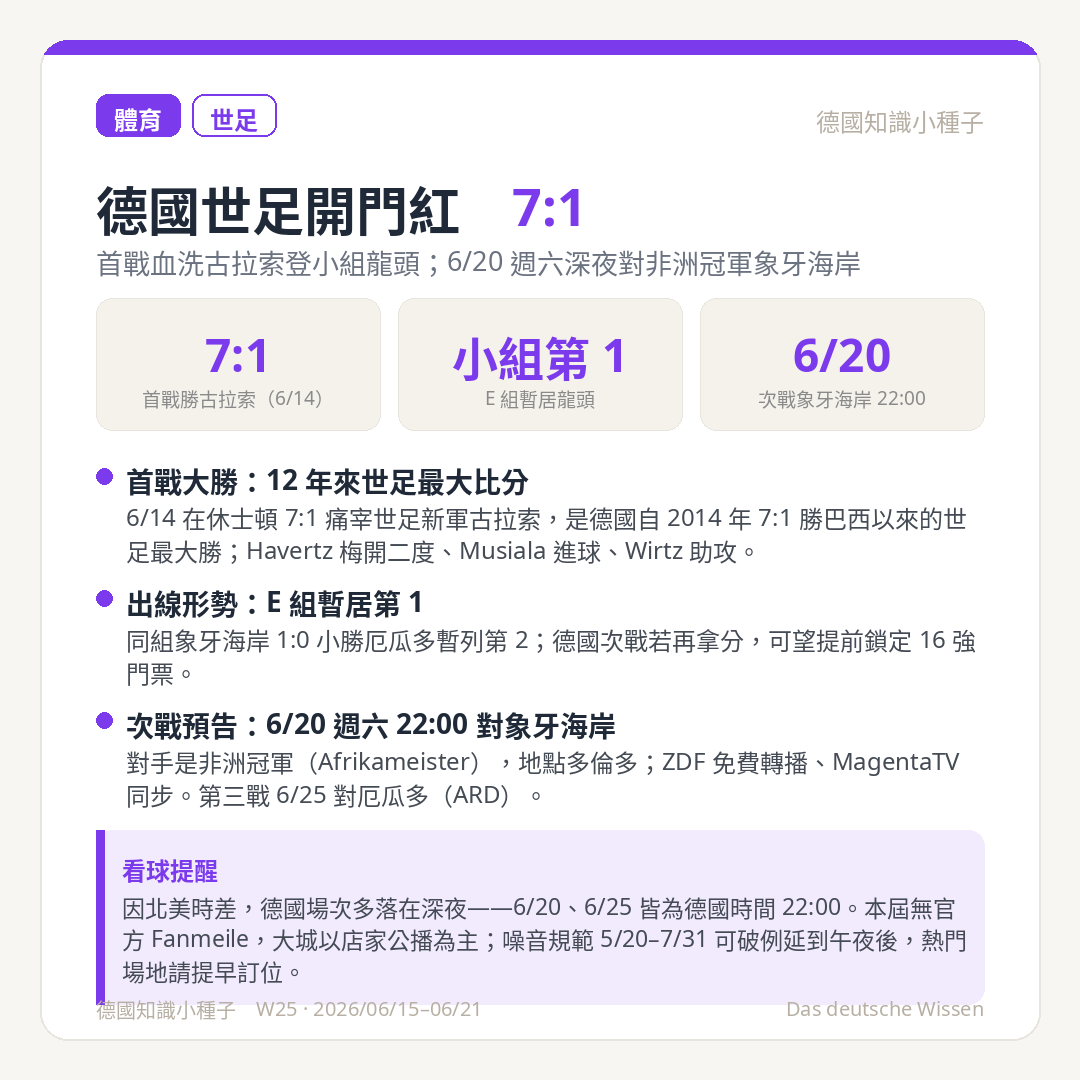
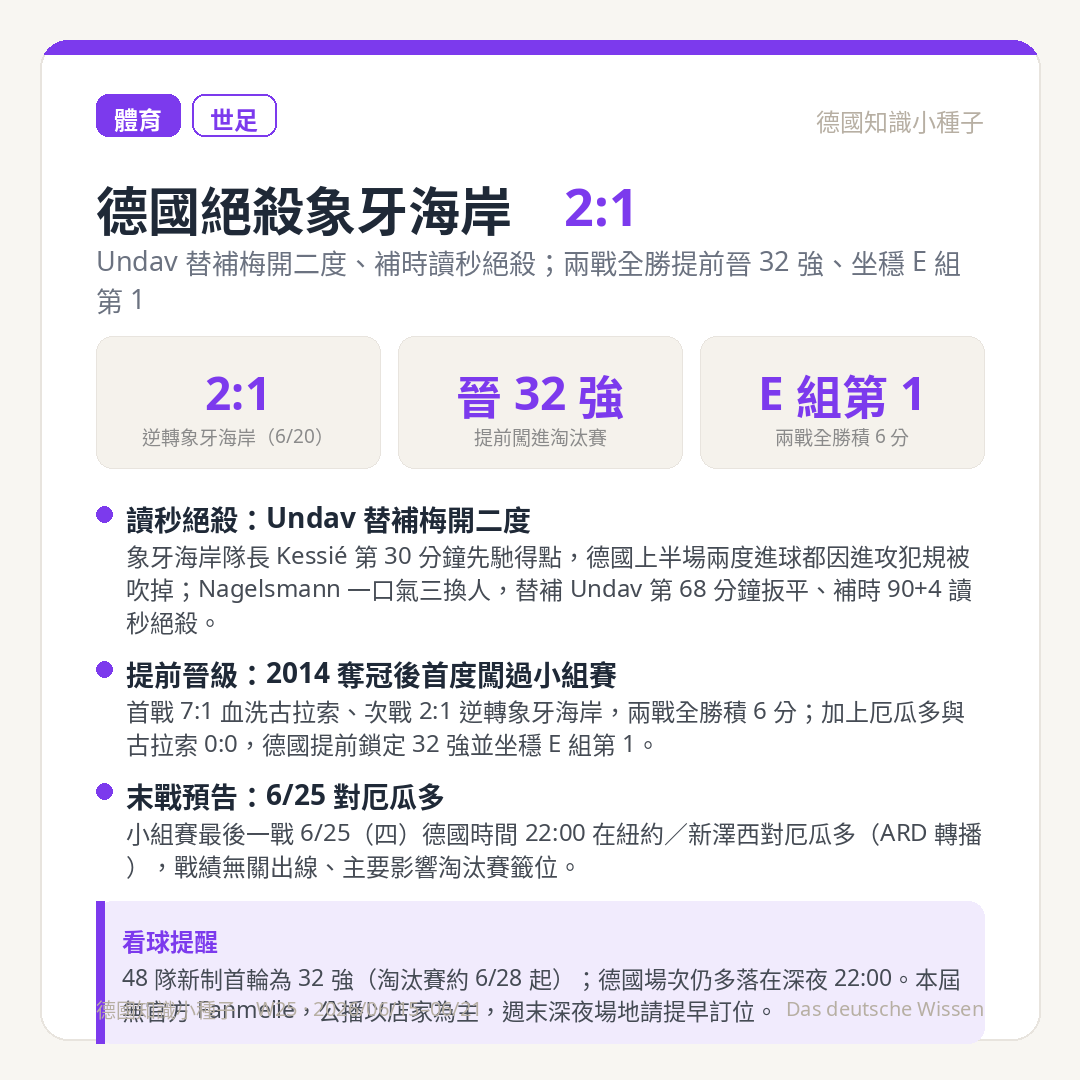
W25 世足更新：德國 2:1 逆轉象牙海岸、提前晉 32 強 (#27)
圖卡1 改賽果版、更新 js/data.js（內文/lead/標題/TOC/excerpt）、修正淘汰賽輪次為 32 強、重建靜態頁。

diff --git a/posts/weekly-digest.html b/posts/weekly-digest.html
@@ -6,13 +6,13 @@
 <meta name="viewport" content="width=device-width, initial-scale=1.0" />
 <meta name="referrer" content="strict-origin-when-cross-origin" />
 <title>德國知識小種子週報精選 | 台勞在德國打工記</title>
-<meta name="description" content="德國世足首戰 7:1 血洗古拉索、暫居 E 組龍頭，6/20 週六德國時間 22:00 再戰非洲冠軍象牙海岸（ZDF）；6/19 起熱浪席捲西南部、上看 38°C，DWD 逾百縣市發布高溫警告、首批熱帶夜報到；6/18–19 EU 高峰會在布魯塞爾登場，烏克蘭「聯繫會員」、第 21 輪對俄制裁與 2028–34 七年預" />
+<meta name="description" content="德國世足兩戰全勝、提前晉級 32 強——首戰 7:1 大勝古拉索、6/20 再靠 Undav 補時絕殺 2:1 逆轉象牙海岸，坐穩 E 組第 1，是 2014 奪冠後首度闖過小組賽；6/19 起熱浪席捲西南部、上看 38°C，DWD 逾百縣市發布高溫警告、首批熱帶夜報到；6/18–19 EU 高峰會在布魯塞爾登場，烏克" />
 <meta name="robots" content="index, follow" />
 <link rel="canonical" href="https://taiwanese-in-germany.com/posts/weekly-digest.html" />
 <meta property="og:type" content="article" />
 <meta property="og:site_name" content="台勞在德國打工記" />
 <meta property="og:title" content="德國知識小種子週報精選 | 台勞在德國打工記" />
-<meta property="og:description" content="德國世足首戰 7:1 血洗古拉索、暫居 E 組龍頭，6/20 週六德國時間 22:00 再戰非洲冠軍象牙海岸（ZDF）；6/19 起熱浪席捲西南部、上看 38°C，DWD 逾百縣市發布高溫警告、首批熱帶夜報到；6/18–19 EU 高峰會在布魯塞爾登場，烏克蘭「聯繫會員」、第 21 輪對俄制裁與 2028–34 七年預" />
+<meta property="og:description" content="德國世足兩戰全勝、提前晉級 32 強——首戰 7:1 大勝古拉索、6/20 再靠 Undav 補時絕殺 2:1 逆轉象牙海岸，坐穩 E 組第 1，是 2014 奪冠後首度闖過小組賽；6/19 起熱浪席捲西南部、上看 38°C，DWD 逾百縣市發布高溫警告、首批熱帶夜報到；6/18–19 EU 高峰會在布魯塞爾登場，烏克" />
 <meta property="og:url" content="https://taiwanese-in-germany.com/posts/weekly-digest.html" />
 <meta property="og:image" content="https://taiwanese-in-germany.com/assets/images/2026/weekly/W25_圖卡1_世足戰況.png" />
 <meta property="og:locale" content="zh_TW" />
@@ -22,9 +22,9 @@
 <meta property="article:tag" content="時事" />
 <meta name="twitter:card" content="summary_large_image" />
 <meta name="twitter:title" content="德國知識小種子週報精選 | 台勞在德國打工記" />
-<meta name="twitter:description" content="德國世足首戰 7:1 血洗古拉索、暫居 E 組龍頭，6/20 週六德國時間 22:00 再戰非洲冠軍象牙海岸（ZDF）；6/19 起熱浪席捲西南部、上看 38°C，DWD 逾百縣市發布高溫警告、首批熱帶夜報到；6/18–19 EU 高峰會在布魯塞爾登場，烏克蘭「聯繫會員」、第 21 輪對俄制裁與 2028–34 七年預" />
+<meta name="twitter:description" content="德國世足兩戰全勝、提前晉級 32 強——首戰 7:1 大勝古拉索、6/20 再靠 Undav 補時絕殺 2:1 逆轉象牙海岸，坐穩 E 組第 1，是 2014 奪冠後首度闖過小組賽；6/19 起熱浪席捲西南部、上看 38°C，DWD 逾百縣市發布高溫警告、首批熱帶夜報到；6/18–19 EU 高峰會在布魯塞爾登場，烏克" />
 <meta name="twitter:image" content="https://taiwanese-in-germany.com/assets/images/2026/weekly/W25_圖卡1_世足戰況.png" />
-<script type="application/ld+json">{"@context":"https://schema.org","@type":"BlogPosting","headline":"德國知識小種子週報精選","description":"德國世足首戰 7:1 血洗古拉索、暫居 E 組龍頭，6/20 週六德國時間 22:00 再戰非洲冠軍象牙海岸（ZDF）；6/19 起熱浪席捲西南部、上看 38°C，DWD 逾百縣市發布高溫警告、首批熱帶夜報到；6/18–19 EU 高峰會在布魯塞爾登場，烏克蘭「聯繫會員」、第 21 輪對俄制裁與 2028–34 七年預","image":"https://taiwanese-in-germany.com/assets/images/2026/weekly/W25_圖卡1_世足戰況.png","url":"https://taiwanese-in-germany.com/posts/weekly-digest.html","datePublished":"2026-06-21","dateModified":"2026-06-21","author":{"@type":"Person","name":"台勞在德國","url":"https://taiwanese-in-germany.com"},"publisher":{"@type":"Organization","name":"台勞在德國打工記","url":"https://taiwanese-in-germany.com","logo":{"@type":"ImageObject","url":"https://taiwanese-in-germany.com/assets/logo.png"}},"mainEntityOfPage":{"@type":"WebPage","@id":"https://taiwanese-in-germany.com/posts/weekly-digest.html"},"inLanguage":"zh-TW","keywords":"週報, 德國政策, 時事"}</script>
+<script type="application/ld+json">{"@context":"https://schema.org","@type":"BlogPosting","headline":"德國知識小種子週報精選","description":"德國世足兩戰全勝、提前晉級 32 強——首戰 7:1 大勝古拉索、6/20 再靠 Undav 補時絕殺 2:1 逆轉象牙海岸，坐穩 E 組第 1，是 2014 奪冠後首度闖過小組賽；6/19 起熱浪席捲西南部、上看 38°C，DWD 逾百縣市發布高溫警告、首批熱帶夜報到；6/18–19 EU 高峰會在布魯塞爾登場，烏克","image":"https://taiwanese-in-germany.com/assets/images/2026/weekly/W25_圖卡1_世足戰況.png","url":"https://taiwanese-in-germany.com/posts/weekly-digest.html","datePublished":"2026-06-21","dateModified":"2026-06-21","author":{"@type":"Person","name":"台勞在德國","url":"https://taiwanese-in-germany.com"},"publisher":{"@type":"Organization","name":"台勞在德國打工記","url":"https://taiwanese-in-germany.com","logo":{"@type":"ImageObject","url":"https://taiwanese-in-germany.com/assets/logo.png"}},"mainEntityOfPage":{"@type":"WebPage","@id":"https://taiwanese-in-germany.com/posts/weekly-digest.html"},"inLanguage":"zh-TW","keywords":"週報, 德國政策, 時事"}</script>
 <script type="application/ld+json">{"@context":"https://schema.org","@type":"BreadcrumbList","itemListElement":[{"@type":"ListItem","position":1,"name":"首頁","item":"https://taiwanese-in-germany.com/"},{"@type":"ListItem","position":2,"name":"德國時事","item":"https://taiwanese-in-germany.com/category.html?cat=%E5%BE%B7%E5%9C%8B%E6%99%82%E4%BA%8B"},{"@type":"ListItem","position":3,"name":"德國知識小種子週報精選","item":"https://taiwanese-in-germany.com/posts/weekly-digest.html"}]}</script>
 <link rel="stylesheet" href="/css/style.css" />
 <link rel="stylesheet" href="https://unpkg.com/@waline/client@3.5.7/dist/waline.css" integrity="sha384-rRoXxn2yHlrZYB587Ki9RO1tONhLdM6XfORg7Rw4uwH4/Fh/5nP7IUX91bkaKUgs" crossorigin="anonymous" />
@@ -139,7 +139,7 @@
   <article class="post-content"><nav class="post-toc" aria-label="本篇目錄">
   <p class="post-toc__title">快速跳轉</p>
   <ul>
-    <li><a href="#jun15-21">6月15日–21日：德國世足 7:1 開門紅、熱浪上看 38°C、EU 高峰會三大戰場、中東航線大停飛至 10/24、伊朗停火協議 6/19 簽署、ZEW 景氣預期重返正值 +10.5</a></li>
+    <li><a href="#jun15-21">6月15日–21日：德國世足 2:1 逆轉象牙海岸晉 32 強、熱浪上看 38°C、EU 高峰會三大戰場、中東航線大停飛至 10/24、伊朗停火協議 6/19 簽署、ZEW 景氣預期重返正值 +10.5</a></li>
     <li><a href="#jun8-14">6月8日–14日：世足首戰週日 19 點開踢、改革高峰會空手而回、對美出口年減 12.9%、通膨回落 2.6%、ECB 三年來首升息、薪資透明 6/8 啟動、六月新制懶人包</a></li>
     <li><a href="#jun1-7">6月1日–7日：世足倒數 Neuer 回鍋、安理會競選史上首敗、退休金調漲 4.24%、破產潮 20 年新高</a></li>
     <li><a href="#may18-31">5月18日–31日：2024 入籍破 29 萬、藍卡新門檻、機票稅調降、E-Auto 補助、GEAS 倒數、經濟回穩、AfD 反超 CDU、Merz 嗆川普</a></li>
@@ -154,13 +154,13 @@
   </ul>
 </nav>
 
-<h2 id="jun15-21">6月15日–21日：德國世足 7:1 開門紅、熱浪上看 38°C、EU 高峰會三大戰場、中東航線大停飛、伊朗停火協議 6/19 簽署、ZEW 景氣預期重返正值 +10.5</h2>
-<p>本週德國從綠茵場、天氣到談判桌都有大事。先看球迷最關心的：<strong>德國世足首戰 7:1 血洗古拉索、暫居 E 組龍頭</strong>，6/20 週六深夜再戰非洲冠軍象牙海岸。生活面，<strong>6/19 起熱浪席捲西南部、上看 38°C</strong>，DWD 在逾百縣市發布高溫警告。政治上，<strong>6/18–19 的 EU 高峰會</strong>在布魯塞爾登場，烏克蘭、對俄第 21 輪制裁與 2028–2034 七年預算（MFR）三大議題同台。中東戰火仍讓航空大亂，<strong>漢莎集團多個中東航點停飛至 10/24</strong>、避開伊朗領空。而本週最大的地緣政治轉折，是<strong>美伊在巴基斯坦斡旋下 6/14 敲定停火諒解備忘錄、預計 6/19 簽署</strong>，將延長停火、解除荷莫茲海峽封鎖並啟動約 60 天核談判；市場立刻反映——<strong>6/16 ZEW 景氣預期單月跳升 20.7 點、重返正值 +10.5</strong>，但反映當下的現況指標卻續跌至 −81.0。以下逐題深入。</p>
+<h2 id="jun15-21">6月15日–21日：德國世足 2:1 逆轉象牙海岸、提前晉 32 強、熱浪上看 38°C、EU 高峰會三大戰場、中東航線大停飛、伊朗停火協議 6/19 簽署、ZEW 景氣預期重返正值 +10.5</h2>
+<p>本週德國從綠茵場、天氣到談判桌都有大事。先看球迷最關心的：<strong>德國世足兩戰全勝、提前晉級 32 強</strong>——首戰 7:1 血洗古拉索，6/20 再靠 Undav 補時絕殺 2:1 逆轉象牙海岸，坐穩 E 組第 1，是 2014 奪冠以來首度闖過小組賽。生活面，<strong>6/19 起熱浪席捲西南部、上看 38°C</strong>，DWD 在逾百縣市發布高溫警告。政治上，<strong>6/18–19 的 EU 高峰會</strong>在布魯塞爾登場，烏克蘭、對俄第 21 輪制裁與 2028–2034 七年預算（MFR）三大議題同台。中東戰火仍讓航空大亂，<strong>漢莎集團多個中東航點停飛至 10/24</strong>、避開伊朗領空。而本週最大的地緣政治轉折，是<strong>美伊在巴基斯坦斡旋下 6/14 敲定停火諒解備忘錄、預計 6/19 簽署</strong>，將延長停火、解除荷莫茲海峽封鎖並啟動約 60 天核談判；市場立刻反映——<strong>6/16 ZEW 景氣預期單月跳升 20.7 點、重返正值 +10.5</strong>，但反映當下的現況指標卻續跌至 −81.0。以下逐題深入。</p>
 
-<img src="/assets/images/2026/weekly/W25_圖卡1_世足戰況.png" alt="德國世足 2026 首戰 7:1 大勝古拉索 E 組第 1 6/20 對象牙海岸 22:00 ZDF">
-<h3>德國世足開門紅 7:1：E 組暫居龍頭，6/20 週六深夜再戰象牙海岸</h3>
-<p>世足小組賽開打，德國在 E 組以一場大勝開局。<strong>6/14 在休士頓首戰 7:1 痛宰世足新軍古拉索</strong>（Curaçao，加勒比海島國、人口約 15 萬，背景見 W23），這是德國<strong>自 2014 年 7:1 勝巴西以來的世足最大勝</strong>——Havertz 梅開二度、Musiala 進球、Wirtz 送出助攻，攻擊火力一掃連兩屆小組出局的陰霾。同組另一場象牙海岸 1:0 小勝厄瓜多，<strong>德國暫居 E 組第 1</strong>、象牙海岸居次。<strong>本週重頭戲：6/20（週六）德國時間 22:00，德國在多倫多對上非洲冠軍象牙海岸（Afrikameister）</strong>，ZDF 免費轉播、MagentaTV 同步；只要再拿下分數，德國可望提前鎖定 16 強。小組賽最後一戰 <strong>6/25（四）22:00 對厄瓜多</strong>，改由 ARD 轉播。<strong>給在德球迷的提醒</strong>：因北美時差，德國場次多落在深夜（22:00 起），熬夜看球請評估隔天行程；本屆德國<strong>沒有官方 Fanmeile</strong>，大城以酒吧、Biergarten 的店家公播為主，政府已放寬 5/20–7/31 的噪音規範、公播可破例延到午夜後（詳見 W20、W24 解析），熱門場地週末請提早訂位。</p>
-<p class="post-sources">📚 來源：<a href="https://www.dfb.de/news/deutschland-in-gruppe-e-gegen-ecuador-elfenbeinkueste-und-curacao" target="_blank" rel="noopener noreferrer">DFB｜E 組對手</a> · <a href="https://www.sportschau.de/fussball/fifa-wm-2026/der-spielplan-der-fussball-wm-2026,fifawm-dfb-spielplan-100.html" target="_blank" rel="noopener noreferrer">sportschau｜德國賽程與轉播</a> · <a href="https://en.wikipedia.org/wiki/2026_FIFA_World_Cup_Group_E" target="_blank" rel="noopener noreferrer">Wikipedia｜Group E 戰績</a> · <a href="https://www.espn.com/soccer/story/_/id/48939282/2026-fifa-world-cup-fixtures-results-match-schedule-group-stage-knockout-rounds-bracket" target="_blank" rel="noopener noreferrer">ESPN｜賽程與結果</a></p>
+<img src="/assets/images/2026/weekly/W25_圖卡1_世足戰況.png" alt="德國世足 2026 6/20 以 2:1 逆轉象牙海岸 Undav 補時絕殺 提前晉級 32 強 E 組第 1">
+<h3>德國 2:1 絕殺象牙海岸、提前晉 32 強：2014 奪冠後首度闖過小組賽</h3>
+<p>世足小組賽第 2 輪，德國在多倫多上演大逆轉。<strong>6/20 對非洲冠軍象牙海岸，德國終場 2:1 獲勝</strong>，過程一波三折：象牙海岸隊長 <strong>Kessié 第 30 分鐘先馳得點</strong>，德國上半場 Pavlović（22'）、Havertz（38'）兩度破門都因進攻犯規遭吹掉，0:1 落後進入中場。Nagelsmann 下半場一口氣三換人扭轉戰局——替補前鋒 <strong>Deniz Undav 第 68 分鐘扳平</strong>（Amiri 助攻），又在 <strong>補時 90+4 分鐘讀秒絕殺</strong>，獨進兩球成為英雄（4.3 萬人客滿的多倫多球場見證）。連同首戰 <strong>7:1 血洗古拉索</strong>（Havertz 梅開二度、Musiala、Wirtz 助攻），德國<strong>兩戰全勝積 6 分</strong>；當天稍晚厄瓜多與古拉索 <strong>0:0 互交白卷</strong>，<strong>德國因此提前鎖定 32 強（48 隊新制的淘汰賽首輪），並坐穩 E 組第 1</strong>——這是德國<strong>自 2014 奪冠以來首度闖過小組賽</strong>，一掃 2018、2022 連兩屆小組出局的陰霾。<strong>末戰預告</strong>：小組賽最後一戰 <strong>6/25（四）德國時間 22:00</strong> 在紐約／新澤西對厄瓜多（ARD 轉播），戰績無關出線、主要影響淘汰賽對戰籤位。<strong>給在德球迷的提醒</strong>：淘汰賽約 6/28 起登場，德國場次仍多落在深夜（22:00 起）；本屆德國<strong>沒有官方 Fanmeile</strong>，大城以酒吧、Biergarten 的店家公播為主，政府已放寬 5/20–7/31 的噪音規範、公播可破例延到午夜後（詳見 W20、W24 解析），週末深夜場地請提早訂位。</p>
+<p class="post-sources">📚 來源：<a href="https://www.sportschau.de/fussball/fifa-wm-2026/undav-schiesst-deutschland-zum-sieg-gegen-die-elfenbeinkueste,wm-spielbericht-deutschland-elfenbeinkueste-100.html" target="_blank" rel="noopener noreferrer">sportschau｜戰報：Undav 絕殺</a> · <a href="https://www.fifa.com/en/match-centre/match/17/285023/289273/400021469" target="_blank" rel="noopener noreferrer">FIFA｜比分與數據</a> · <a href="https://www.espn.com/soccer/match/_/gameId/760448/ivory-coast-germany" target="_blank" rel="noopener noreferrer">ESPN｜Germany 2-1 Ivory Coast</a> · <a href="https://www.sportschau.de/live-und-ergebnisse/fussball/fifa-wm/tabelle/" target="_blank" rel="noopener noreferrer">sportschau｜E 組積分榜</a></p>
 
 <img src="/assets/images/2026/weekly/W25_圖卡2_熱浪來襲.png" alt="德國熱浪 6/19 起西南部上看 38 度 DWD 逾百縣市高溫警告 熱帶夜 防暑">
 <h3>熱浪席捲德國上看 38°C：DWD 逾百縣市高溫警告、首批熱帶夜報到</h3>

diff --git a/js/data.js b/js/data.js
@@ -340,13 +340,13 @@ const POSTS = [
     date: '2026-06-21',
     categories: ['德國時事'],
     tags: ['週報', '德國政策', '時事'],
-    excerpt: '德國世足首戰 7:1 血洗古拉索、暫居 E 組龍頭，6/20 週六德國時間 22:00 再戰非洲冠軍象牙海岸（ZDF）；6/19 起熱浪席捲西南部、上看 38°C，DWD 逾百縣市發布高溫警告、首批熱帶夜報到；6/18–19 EU 高峰會在布魯塞爾登場，烏克蘭「聯繫會員」、第 21 輪對俄制裁與 2028–34 七年預算（MFR）三大戰場齊開，Merz 挺烏卻反對共同舉債；伊朗戰火持續衝擊航空，漢莎集團德黑蘭、貝魯特、阿曼等中東航點停飛至 10/24、避開伊朗領空，特拉維夫 7/1 例外復飛；中東迎來轉折——巴基斯坦斡旋下美伊 6/14 敲定停火諒解備忘錄、預計 6/19 簽署，將延長停火、解除荷莫茲海峽封鎖並啟動約 60 天核談判；市場提前反映，6/16 ZEW 景氣預期單月跳升 20.7 點、重返正值 +10.5（遠優於預期），但反映當下的現況指標卻續跌至 −81.0。',
+    excerpt: '德國世足兩戰全勝、提前晉級 32 強——首戰 7:1 大勝古拉索、6/20 再靠 Undav 補時絕殺 2:1 逆轉象牙海岸，坐穩 E 組第 1，是 2014 奪冠後首度闖過小組賽；6/19 起熱浪席捲西南部、上看 38°C，DWD 逾百縣市發布高溫警告、首批熱帶夜報到；6/18–19 EU 高峰會在布魯塞爾登場，烏克蘭「聯繫會員」、第 21 輪對俄制裁與 2028–34 七年預算（MFR）三大戰場齊開，Merz 挺烏卻反對共同舉債；伊朗戰火持續衝擊航空，漢莎集團德黑蘭、貝魯特、阿曼等中東航點停飛至 10/24、避開伊朗領空，特拉維夫 7/1 例外復飛；中東迎來轉折——巴基斯坦斡旋下美伊 6/14 敲定停火諒解備忘錄、預計 6/19 簽署，將延長停火、解除荷莫茲海峽封鎖並啟動約 60 天核談判；市場提前反映，6/16 ZEW 景氣預期單月跳升 20.7 點、重返正值 +10.5（遠優於預期），但反映當下的現況指標卻續跌至 −81.0。',
     emoji: '🌱',
     content: `
 <nav class="post-toc" aria-label="本篇目錄">
   <p class="post-toc__title">快速跳轉</p>
   <ul>
-    <li><a href="#jun15-21">6月15日–21日：德國世足 7:1 開門紅、熱浪上看 38°C、EU 高峰會三大戰場、中東航線大停飛至 10/24、伊朗停火協議 6/19 簽署、ZEW 景氣預期重返正值 +10.5</a></li>
+    <li><a href="#jun15-21">6月15日–21日：德國世足 2:1 逆轉象牙海岸晉 32 強、熱浪上看 38°C、EU 高峰會三大戰場、中東航線大停飛至 10/24、伊朗停火協議 6/19 簽署、ZEW 景氣預期重返正值 +10.5</a></li>
     <li><a href="#jun8-14">6月8日–14日：世足首戰週日 19 點開踢、改革高峰會空手而回、對美出口年減 12.9%、通膨回落 2.6%、ECB 三年來首升息、薪資透明 6/8 啟動、六月新制懶人包</a></li>
     <li><a href="#jun1-7">6月1日–7日：世足倒數 Neuer 回鍋、安理會競選史上首敗、退休金調漲 4.24%、破產潮 20 年新高</a></li>
     <li><a href="#may18-31">5月18日–31日：2024 入籍破 29 萬、藍卡新門檻、機票稅調降、E-Auto 補助、GEAS 倒數、經濟回穩、AfD 反超 CDU、Merz 嗆川普</a></li>
@@ -361,13 +361,13 @@ const POSTS = [
   </ul>
 </nav>
 
-<h2 id="jun15-21">6月15日–21日：德國世足 7:1 開門紅、熱浪上看 38°C、EU 高峰會三大戰場、中東航線大停飛、伊朗停火協議 6/19 簽署、ZEW 景氣預期重返正值 +10.5</h2>
-<p>本週德國從綠茵場、天氣到談判桌都有大事。先看球迷最關心的：<strong>德國世足首戰 7:1 血洗古拉索、暫居 E 組龍頭</strong>，6/20 週六深夜再戰非洲冠軍象牙海岸。生活面，<strong>6/19 起熱浪席捲西南部、上看 38°C</strong>，DWD 在逾百縣市發布高溫警告。政治上，<strong>6/18–19 的 EU 高峰會</strong>在布魯塞爾登場，烏克蘭、對俄第 21 輪制裁與 2028–2034 七年預算（MFR）三大議題同台。中東戰火仍讓航空大亂，<strong>漢莎集團多個中東航點停飛至 10/24</strong>、避開伊朗領空。而本週最大的地緣政治轉折，是<strong>美伊在巴基斯坦斡旋下 6/14 敲定停火諒解備忘錄、預計 6/19 簽署</strong>，將延長停火、解除荷莫茲海峽封鎖並啟動約 60 天核談判；市場立刻反映——<strong>6/16 ZEW 景氣預期單月跳升 20.7 點、重返正值 +10.5</strong>，但反映當下的現況指標卻續跌至 −81.0。以下逐題深入。</p>
+<h2 id="jun15-21">6月15日–21日：德國世足 2:1 逆轉象牙海岸、提前晉 32 強、熱浪上看 38°C、EU 高峰會三大戰場、中東航線大停飛、伊朗停火協議 6/19 簽署、ZEW 景氣預期重返正值 +10.5</h2>
+<p>本週德國從綠茵場、天氣到談判桌都有大事。先看球迷最關心的：<strong>德國世足兩戰全勝、提前晉級 32 強</strong>——首戰 7:1 血洗古拉索，6/20 再靠 Undav 補時絕殺 2:1 逆轉象牙海岸，坐穩 E 組第 1，是 2014 奪冠以來首度闖過小組賽。生活面，<strong>6/19 起熱浪席捲西南部、上看 38°C</strong>，DWD 在逾百縣市發布高溫警告。政治上，<strong>6/18–19 的 EU 高峰會</strong>在布魯塞爾登場，烏克蘭、對俄第 21 輪制裁與 2028–2034 七年預算（MFR）三大議題同台。中東戰火仍讓航空大亂，<strong>漢莎集團多個中東航點停飛至 10/24</strong>、避開伊朗領空。而本週最大的地緣政治轉折，是<strong>美伊在巴基斯坦斡旋下 6/14 敲定停火諒解備忘錄、預計 6/19 簽署</strong>，將延長停火、解除荷莫茲海峽封鎖並啟動約 60 天核談判；市場立刻反映——<strong>6/16 ZEW 景氣預期單月跳升 20.7 點、重返正值 +10.5</strong>，但反映當下的現況指標卻續跌至 −81.0。以下逐題深入。</p>
 
-<img src="assets/images/2026/weekly/W25_圖卡1_世足戰況.png" alt="德國世足 2026 首戰 7:1 大勝古拉索 E 組第 1 6/20 對象牙海岸 22:00 ZDF">
-<h3>德國世足開門紅 7:1：E 組暫居龍頭，6/20 週六深夜再戰象牙海岸</h3>
-<p>世足小組賽開打，德國在 E 組以一場大勝開局。<strong>6/14 在休士頓首戰 7:1 痛宰世足新軍古拉索</strong>（Curaçao，加勒比海島國、人口約 15 萬，背景見 W23），這是德國<strong>自 2014 年 7:1 勝巴西以來的世足最大勝</strong>——Havertz 梅開二度、Musiala 進球、Wirtz 送出助攻，攻擊火力一掃連兩屆小組出局的陰霾。同組另一場象牙海岸 1:0 小勝厄瓜多，<strong>德國暫居 E 組第 1</strong>、象牙海岸居次。<strong>本週重頭戲：6/20（週六）德國時間 22:00，德國在多倫多對上非洲冠軍象牙海岸（Afrikameister）</strong>，ZDF 免費轉播、MagentaTV 同步；只要再拿下分數，德國可望提前鎖定 16 強。小組賽最後一戰 <strong>6/25（四）22:00 對厄瓜多</strong>，改由 ARD 轉播。<strong>給在德球迷的提醒</strong>：因北美時差，德國場次多落在深夜（22:00 起），熬夜看球請評估隔天行程；本屆德國<strong>沒有官方 Fanmeile</strong>，大城以酒吧、Biergarten 的店家公播為主，政府已放寬 5/20–7/31 的噪音規範、公播可破例延到午夜後（詳見 W20、W24 解析），熱門場地週末請提早訂位。</p>
-<p class="post-sources">📚 來源：<a href="https://www.dfb.de/news/deutschland-in-gruppe-e-gegen-ecuador-elfenbeinkueste-und-curacao" target="_blank" rel="noopener noreferrer">DFB｜E 組對手</a> · <a href="https://www.sportschau.de/fussball/fifa-wm-2026/der-spielplan-der-fussball-wm-2026,fifawm-dfb-spielplan-100.html" target="_blank" rel="noopener noreferrer">sportschau｜德國賽程與轉播</a> · <a href="https://en.wikipedia.org/wiki/2026_FIFA_World_Cup_Group_E" target="_blank" rel="noopener noreferrer">Wikipedia｜Group E 戰績</a> · <a href="https://www.espn.com/soccer/story/_/id/48939282/2026-fifa-world-cup-fixtures-results-match-schedule-group-stage-knockout-rounds-bracket" target="_blank" rel="noopener noreferrer">ESPN｜賽程與結果</a></p>
+<img src="assets/images/2026/weekly/W25_圖卡1_世足戰況.png" alt="德國世足 2026 6/20 以 2:1 逆轉象牙海岸 Undav 補時絕殺 提前晉級 32 強 E 組第 1">
+<h3>德國 2:1 絕殺象牙海岸、提前晉 32 強：2014 奪冠後首度闖過小組賽</h3>
+<p>世足小組賽第 2 輪，德國在多倫多上演大逆轉。<strong>6/20 對非洲冠軍象牙海岸，德國終場 2:1 獲勝</strong>，過程一波三折：象牙海岸隊長 <strong>Kessié 第 30 分鐘先馳得點</strong>，德國上半場 Pavlović（22'）、Havertz（38'）兩度破門都因進攻犯規遭吹掉，0:1 落後進入中場。Nagelsmann 下半場一口氣三換人扭轉戰局——替補前鋒 <strong>Deniz Undav 第 68 分鐘扳平</strong>（Amiri 助攻），又在 <strong>補時 90+4 分鐘讀秒絕殺</strong>，獨進兩球成為英雄（4.3 萬人客滿的多倫多球場見證）。連同首戰 <strong>7:1 血洗古拉索</strong>（Havertz 梅開二度、Musiala、Wirtz 助攻），德國<strong>兩戰全勝積 6 分</strong>；當天稍晚厄瓜多與古拉索 <strong>0:0 互交白卷</strong>，<strong>德國因此提前鎖定 32 強（48 隊新制的淘汰賽首輪），並坐穩 E 組第 1</strong>——這是德國<strong>自 2014 奪冠以來首度闖過小組賽</strong>，一掃 2018、2022 連兩屆小組出局的陰霾。<strong>末戰預告</strong>：小組賽最後一戰 <strong>6/25（四）德國時間 22:00</strong> 在紐約／新澤西對厄瓜多（ARD 轉播），戰績無關出線、主要影響淘汰賽對戰籤位。<strong>給在德球迷的提醒</strong>：淘汰賽約 6/28 起登場，德國場次仍多落在深夜（22:00 起）；本屆德國<strong>沒有官方 Fanmeile</strong>，大城以酒吧、Biergarten 的店家公播為主，政府已放寬 5/20–7/31 的噪音規範、公播可破例延到午夜後（詳見 W20、W24 解析），週末深夜場地請提早訂位。</p>
+<p class="post-sources">📚 來源：<a href="https://www.sportschau.de/fussball/fifa-wm-2026/undav-schiesst-deutschland-zum-sieg-gegen-die-elfenbeinkueste,wm-spielbericht-deutschland-elfenbeinkueste-100.html" target="_blank" rel="noopener noreferrer">sportschau｜戰報：Undav 絕殺</a> · <a href="https://www.fifa.com/en/match-centre/match/17/285023/289273/400021469" target="_blank" rel="noopener noreferrer">FIFA｜比分與數據</a> · <a href="https://www.espn.com/soccer/match/_/gameId/760448/ivory-coast-germany" target="_blank" rel="noopener noreferrer">ESPN｜Germany 2-1 Ivory Coast</a> · <a href="https://www.sportschau.de/live-und-ergebnisse/fussball/fifa-wm/tabelle/" target="_blank" rel="noopener noreferrer">sportschau｜E 組積分榜</a></p>
 
 <img src="assets/images/2026/weekly/W25_圖卡2_熱浪來襲.png" alt="德國熱浪 6/19 起西南部上看 38 度 DWD 逾百縣市高溫警告 熱帶夜 防暑">
 <h3>熱浪席捲德國上看 38°C：DWD 逾百縣市高溫警告、首批熱帶夜報到</h3>